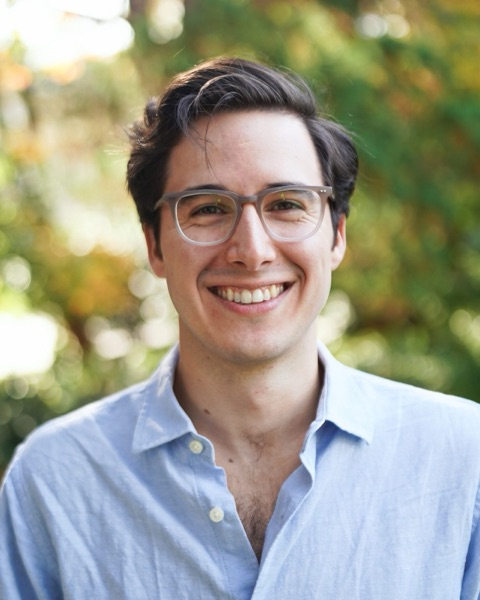
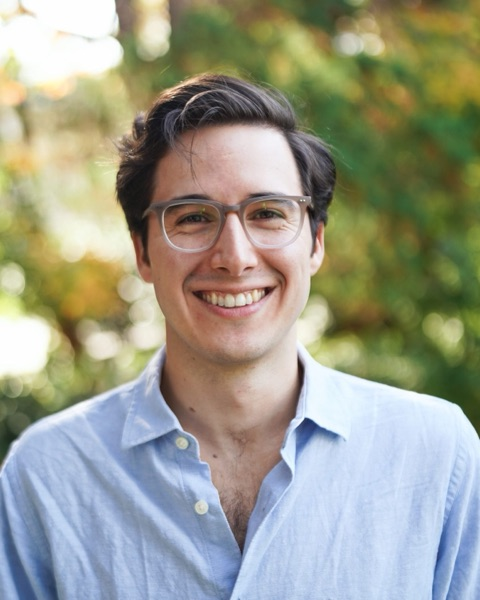
Re-crop headshot (medium zoom, centred between face and body); bio: labour economics

diff --git a/index.html b/index.html
@@ -52,7 +52,7 @@
       </div>
       <div class="intro-text">
         <p class="affiliation">Ph.D. Candidate in Economics<br>Vancouver School of Economics, University of British Columbia</p>
-        <p>I am a Ph.D. candidate in Economics at the <a href="https://economics.ubc.ca/" target="_blank" rel="noopener noreferrer">Vancouver School of Economics</a>, <a href="https://www.ubc.ca/" target="_blank" rel="noopener noreferrer">University of British Columbia</a>. My research is in political economy and public economics: I study how anti-corruption enforcement shapes public procurement, and how economic shocks and institutions shape political polarization. Before the Ph.D., I was an Empirical Research Fellow at Northwestern University’s Kellogg School of Management and an Economics Consultant at the Inter-American Development Bank. I hold a B.A. in Economics and Political Science from ITAM.</p>
+        <p>I am a Ph.D. candidate in Economics at the <a href="https://economics.ubc.ca/" target="_blank" rel="noopener noreferrer">Vancouver School of Economics</a>, <a href="https://www.ubc.ca/" target="_blank" rel="noopener noreferrer">University of British Columbia</a>. My research is in political economy and labour economics: I study how anti-corruption enforcement shapes public procurement, and how economic shocks and institutions shape political polarization. Before the Ph.D., I was an Empirical Research Fellow at Northwestern University’s Kellogg School of Management and an Economics Consultant at the Inter-American Development Bank. I hold a B.A. in Economics and Political Science from ITAM.</p>
       </div>
     </section>
   </main>
